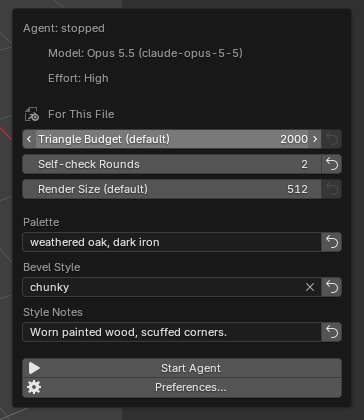
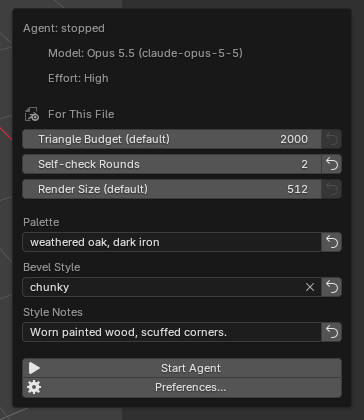
Shoot popups with no item hovered; name no memory file
The screenshot harness now moves the pointer into a popup's empty corner
before the shot, so the agent popover no longer shows its first row as
hovered. The architecture notes and the guide test no longer mention a
second guide file by name.

Changed region(s): [[0.0907, 0.3095, 0.8462, 0.3714]]

diff --git a/tests/screens/harness.py b/tests/screens/harness.py
@@ -139,10 +139,9 @@ def screenshot_window(path: Path) -> np.ndarray:
     return pixels.reshape(height, width, 4)
 
 
-def crop_to_change(before: np.ndarray, after: np.ndarray, margin: int = 8, status: int = 0) -> np.ndarray:
-    """The part of after that differs from before: the popup that opened,
-    with a little of what it covers around it. The bottom status rows are
-    not looked at."""
+def change_bounds(before: np.ndarray, after: np.ndarray, status: int = 0) -> tuple[int, int, int, int]:
+    """(x0, y0, x1, y1) of the part of after that differs from before: the
+    popup that opened. The bottom status rows are not looked at."""
     if before.shape != after.shape:
         raise RuntimeError("the window changed size while the popup opened")
     changed = np.abs(after[..., :3] - before[..., :3]).max(axis=2) > 1e-3
@@ -150,8 +149,14 @@ def crop_to_change(before: np.ndarray, after: np.ndarray, margin: int = 8, statu
     rows, cols = np.nonzero(changed.any(axis=1))[0], np.nonzero(changed.any(axis=0))[0]
     if len(rows) == 0:
         raise RuntimeError("nothing opened: the window looks the same")
-    y0, y1 = max(0, rows[0] - margin), min(after.shape[0], rows[-1] + 1 + margin)
-    x0, x1 = max(0, cols[0] - margin), min(after.shape[1], cols[-1] + 1 + margin)
+    return int(cols[0]), int(rows[0]), int(cols[-1]) + 1, int(rows[-1]) + 1
+
+
+def crop_to_change(before: np.ndarray, after: np.ndarray, margin: int = 8, status: int = 0) -> np.ndarray:
+    """The popup that opened, with a little of what it covers around it."""
+    x0, y0, x1, y1 = change_bounds(before, after, status)
+    y0, y1 = max(0, y0 - margin), min(after.shape[0], y1 + margin)
+    x0, x1 = max(0, x0 - margin), min(after.shape[1], x1 + margin)
     return after[y0:y1, x0:x1].copy()
 
 
@@ -366,8 +371,23 @@ class Run:
                 module, name = self.popup.name.split(".")
                 getattr(getattr(bpy.ops, module), name)("INVOKE_DEFAULT", **self.popup.props)
         redraw_all()
-        self.state = "popup_shoot"
+        self.state = "popup_unhover"
         self.wait_until = time.monotonic() + HOLD
+        return TICK
+
+    def _popup_unhover(self):
+        """The popup opened under the pointer, so its first item shows as
+        hovered: moves the pointer into the popup's top left corner, where
+        nothing is drawn, so the popup stays open with no item hovered."""
+        if time.monotonic() < self.wait_until:
+            return TICK
+        after = screenshot_window(self.work / "window-after.png")
+        x0, _y0, _x1, y1 = change_bounds(self.before_popup, after, status=STATUS_BAR)
+        win, _area, _main, _ui = view3d()
+        win.event_simulate(type="MOUSEMOVE", value="NOTHING", x=x0 + 12, y=y1 - 8)
+        redraw_all()
+        self.state = "popup_shoot"
+        self.wait_until = time.monotonic() + 0.5
         return TICK
 
     def _popup_shoot(self):

diff --git a/tests/agent/test_guide.py b/tests/agent/test_guide.py
@@ -36,8 +36,9 @@ class GuideTest(unittest.TestCase):
             self.assertTrue((REPO / script).is_file(), script)
 
     def test_it_is_the_only_guide(self):
-        # Claude Code reads AGENTS.md itself; a CLAUDE.md would be a second copy to keep in step.
-        self.assertFalse((REPO / "CLAUDE.md").exists())
+        # A second guide at the root would be one more copy to keep in step.
+        guides = {p.name for p in REPO.glob("*.md")} - {"README.md", "CONTRIBUTING.md"}
+        self.assertEqual(guides, {"AGENTS.md"})
 
 
 if __name__ == "__main__":

diff --git a/docs/progress.md b/docs/progress.md
@@ -391,8 +391,10 @@ shot in a GUI Blender without a person at the keyboard.
   wide variant drags the sidebar's edge with `--enable-event-simulate` events (region width
   has no setter), which also keeps real input out of the window. A scenario that returns a
   `Popup` is shot as a popup: the pointer is moved over the sidebar (simulated), the window
-  is shot, the popover (`wm.call_panel`) or the menu operator is opened, the window is shot
-  again and cropped to what changed.
+  is shot, the popover (`wm.call_panel`) or the menu operator is opened, the pointer is
+  moved into the popup's empty top left corner so the item it opened over does not show as
+  hovered, and the window is shot again and cropped to what changed. A menu keeps its last
+  hovered item lit, so `model_menu_older` still shows one.
 - `tests/screens/scenarios.py`: 23 states (empty, start, prompt_typed, prompt_only_done,
   sketching, streaming, conversation, branched, branch_edit, asking, interrupted,
   error_turn, folded_failure, crashed, setup_needed, key_needed, comparing, manual_targets,

diff --git a/docs/architecture.md b/docs/architecture.md
@@ -631,7 +631,7 @@ ClaudeAgentOptions(
     permission_mode="dontAsk",                     # deny anything not pre-approved
     mcp_servers={"blender": blender_server, "whittle": whittle_server},
     strict_mcp_config=True,                        # ignore user/project MCP config
-    setting_sources=[],                            # no user/project settings or CLAUDE.md
+    setting_sources=[],                            # no user/project settings or memory files
     plugins=[{"type": "local", "path": str(PLUGIN_DIR)}],
     skills=[f"whittle:{name}" for name in SKILLS],
     resume=params["resume"],
